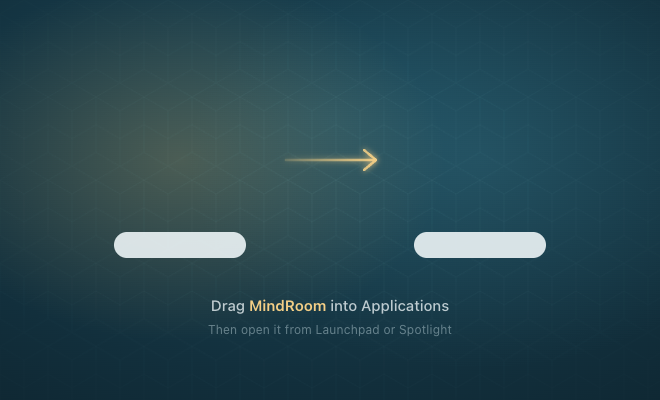
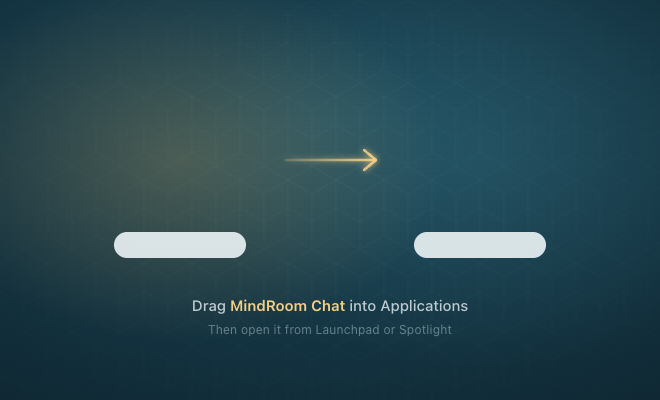
Mac DMG: backfill old tags under their DMG name, caption says MindRoom Chat
A manual run of the Mac workflow on a tag from before the rename builds
MindRoom.dmg: a 'Find the DMG' step now names the file the build made,
and the appcast, upload and tap dispatch use it; the 'already has its
DMG' guard and the feed publisher accept both names. The DMG background
says 'Drag MindRoom Chat into Applications' (re-rendered on a Mac). The
web download link prefers MindRoom-Chat.dmg when a release lists both.

Assisted-by: MindRoom DevAgent:anthropic/claude-opus-5.5 <https://github.com/mindroom-ai/mindroom>

Changed region(s): [[0.2727, 0.75, 0.7273, 0.78]]

diff --git a/src/app/native/macCatalystUpdater.test.ts b/src/app/native/macCatalystUpdater.test.ts
@@ -1,5 +1,7 @@
-import { readFileSync } from 'node:fs';
-import { resolve } from 'node:path';
+import { spawnSync } from 'node:child_process';
+import { mkdirSync, mkdtempSync, readFileSync, writeFileSync } from 'node:fs';
+import { tmpdir } from 'node:os';
+import { join, resolve } from 'node:path';
 import { describe, expect, it } from 'vitest';
 import { parse } from 'yaml';
 import { getSingleAppTargetBuildSettingValue } from '../../../scripts/ios-xcode-project.mjs';
@@ -71,7 +73,9 @@ describe('the Mac updater in the Xcode project', () => {
     );
     // The one place the key goes: the public half of the SPARKLE_ED_PRIVATE_KEY secret
     // (docs/ios-release.md, "Making the key").
-    expect(release).toContain('MINDROOM_UPDATE_PUBLIC_KEY = "he65VFC6KQjH8xkoYxPKmIe6cbbspSFr7oMsttWYPRE=";');
+    expect(release).toContain(
+      'MINDROOM_UPDATE_PUBLIC_KEY = "he65VFC6KQjH8xkoYxPKmIe6cbbspSFr7oMsttWYPRE=";'
+    );
     expect(project.match(/MINDROOM_UPDATE_(FEED_URL|PUBLIC_KEY) =/g)).toHaveLength(2);
     expect(debug).not.toContain('MINDROOM_UPDATE_');
   });
@@ -115,7 +119,7 @@ describe('the Mac workflow and the update feed', () => {
     );
     expect(upload.indexOf('build/macos/appcast.xml --clobber')).toBeGreaterThan(-1);
     expect(upload.indexOf('build/macos/appcast.xml --clobber')).toBeLessThan(
-      upload.indexOf('build/macos/MindRoom-Chat.dmg')
+      upload.indexOf('"build/macos/$DMG"')
     );
   });
 
@@ -144,6 +148,38 @@ describe('the Mac workflow and the update feed', () => {
     expect(upload.run).toContain('if [[ $UPDATER == true ]]; then');
     expect(upload.run).not.toContain('-f build/macos/appcast.xml');
   });
+
+  it.each([
+    ['a new tag', ['MindRoom-Chat.dmg'], 'MindRoom-Chat.dmg'],
+    ['a tag from before the rename', ['MindRoom.dmg'], 'MindRoom.dmg'],
+    ['a build with no DMG', [], undefined],
+  ])(
+    'names the DMG the build made for %s, which the appcast, upload and tap use',
+    (_, made, dmg) => {
+      type Step = { name?: string; run?: string; env?: Record<string, string> };
+      const steps = (parse(workflow) as { jobs: { dmg: { steps: Step[] } } }).jobs.dmg.steps;
+      const named = (name: string) => steps.find((step) => step.name === name)!;
+      const dir = mkdtempSync(join(tmpdir(), 'mac-dmg-'));
+      mkdirSync(join(dir, 'build/macos'), { recursive: true });
+      made.forEach((name) => writeFileSync(join(dir, 'build/macos', name), 'dmg'));
+      const output = join(dir, 'output');
+      writeFileSync(output, '');
+      const result = spawnSync('bash', ['-c', named('Find the DMG').run!], {
+        cwd: dir,
+        env: { ...process.env, GITHUB_OUTPUT: output },
+      });
+      expect(result.status).toBe(dmg ? 0 : 1);
+      expect(readFileSync(output, 'utf8')).toBe(dmg ? `name=${dmg}\n` : '');
+      [
+        'Make the appcast',
+        'Attach the appcast and the DMG to the release',
+        'Ask the tap to update its cask',
+      ].forEach((name) => {
+        expect(named(name).env?.DMG).toBe('${{ steps.dmg.outputs.name }}');
+        expect(named(name).run).toContain('$DMG');
+      });
+    }
+  );
 
   it('publishes the feed one run at a time, and writes nothing but for a release tag', () => {
     type Step = { if?: string; run?: string };

diff --git a/src/app/native/macApp.ts b/src/app/native/macApp.ts
@@ -7,7 +7,7 @@ import { isNativeApp } from './nativeSso';
  * The disk image's names on a release: the Mac workflow attaches it minutes after publishing.
  * Releases before the app was called MindRoom Chat on the Mac carry `MindRoom.dmg`.
  */
-const MAC_APP_DMGS: readonly unknown[] = ['MindRoom-Chat.dmg', 'MindRoom.dmg'];
+const MAC_APP_DMGS = ['MindRoom-Chat.dmg', 'MindRoom.dmg'];
 
 /** The newest releases, which GitHub serves to any page without sign-in. */
 const MAC_APP_RELEASES_API =
@@ -28,12 +28,15 @@ export const parseMacAppDownloadUrl = (releases: unknown): string | undefined =>
     if (typeof release !== 'object' || release === null) continue;
     const { draft, prerelease, assets } = release as Record<string, unknown>;
     if (draft === true || prerelease === true || !Array.isArray(assets)) continue;
-    for (const asset of assets as unknown[]) {
-      if (typeof asset !== 'object' || asset === null) continue;
-      const { name, state, browser_download_url: url } = asset as Record<string, unknown>;
-      // A failed upload can leave a `starter` asset of that name, which has nothing to download.
-      const uploaded = MAC_APP_DMGS.includes(name) && state === 'uploaded';
-      if (uploaded && typeof url === 'string' && url.startsWith('https://')) return url;
+    // The first name wins over the second within a release.
+    for (const dmg of MAC_APP_DMGS) {
+      for (const asset of assets as unknown[]) {
+        if (typeof asset !== 'object' || asset === null) continue;
+        const { name, state, browser_download_url: url } = asset as Record<string, unknown>;
+        // A failed upload can leave a `starter` asset of that name, which has nothing to download.
+        const uploaded = name === dmg && state === 'uploaded';
+        if (uploaded && typeof url === 'string' && url.startsWith('https://')) return url;
+      }
     }
   }
   return undefined;

diff --git a/src/app/native/macPublishAppcast.test.ts b/src/app/native/macPublishAppcast.test.ts
@@ -175,6 +175,16 @@ it.each([
   expect(github.feedNow()).toBe(appcast(after));
 });
 
+it('publishes a release from before the rename, whose DMG is MindRoom.dmg', () => {
+  const github = fixture();
+  github.live('2026.11.9');
+  github.release('v2026.11.10', ['MindRoom.dmg', 'appcast.xml']);
+  const result = github.run('v2026.11.10');
+  expect(result.status, result.stderr).toBe(0);
+  expect(github.uploads(result)).toBe(1);
+  expect(github.feedNow()).toBe(appcast('2026.11.10'));
+});
+
 it.each([
   ['has no DMG yet', ['appcast.xml']],
   ['has no appcast', ['MindRoom-Chat.dmg']],

diff --git a/src/app/native/macApp.test.ts b/src/app/native/macApp.test.ts
@@ -112,6 +112,12 @@ describe('parseMacAppDownloadUrl', () => {
     ).toBe(dmg('v1', 'MindRoom.dmg'));
   });
 
+  it('prefers MindRoom-Chat.dmg when a release has both, the old one listed first', () => {
+    expect(parseMacAppDownloadUrl([release('v2', ['MindRoom.dmg', 'MindRoom-Chat.dmg'])])).toBe(
+      dmg('v2')
+    );
+  });
+
   it('passes over an image whose upload never finished (`starter`)', () => {
     expect(
       parseMacAppDownloadUrl([

diff --git a/scripts/macos-dmg/background.html b/scripts/macos-dmg/background.html
@@ -69,7 +69,7 @@
     <path d="M364 150 L376 160 L364 170" />
   </g>
 </svg>
-<div class="caption">Drag <b>MindRoom</b> into Applications</div>
+<div class="caption">Drag <b>MindRoom Chat</b> into Applications</div>
 <div class="hint">Then open it from Launchpad or Spotlight</div>
 </body>
 </html>
